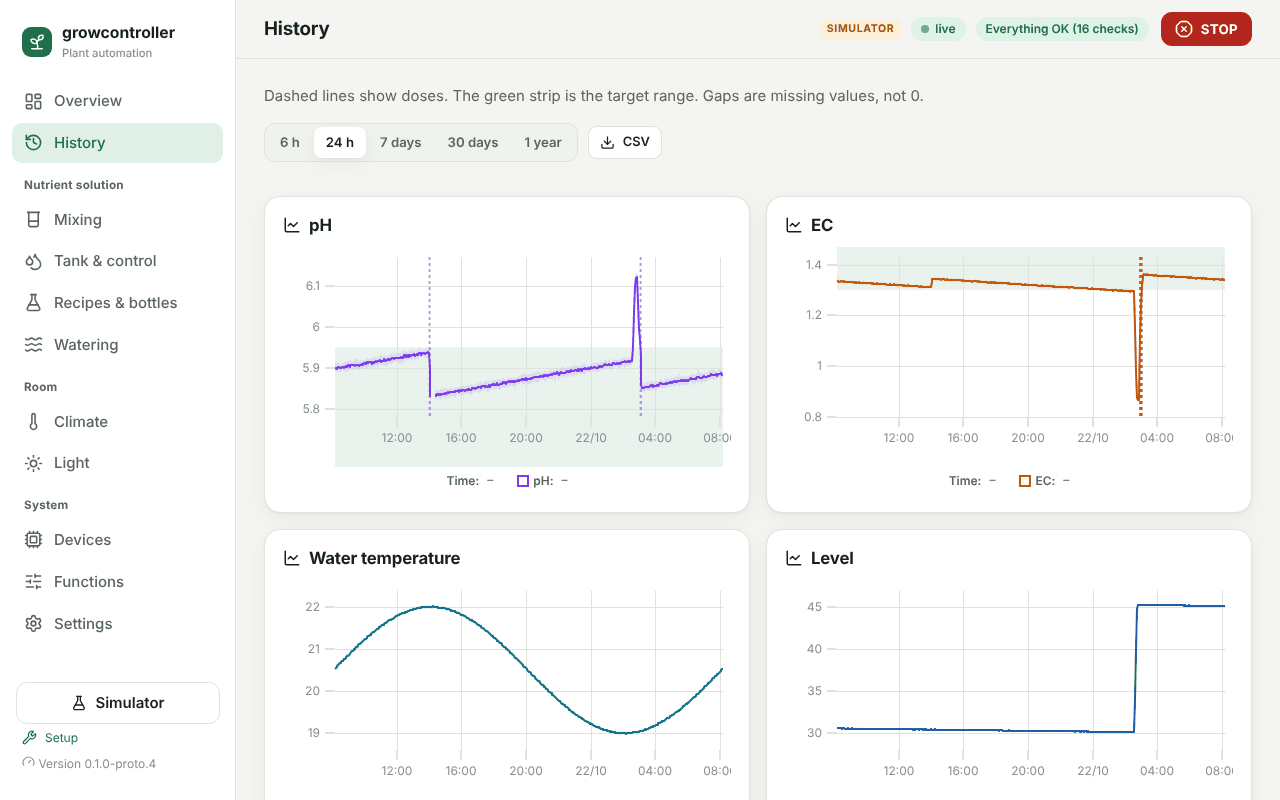
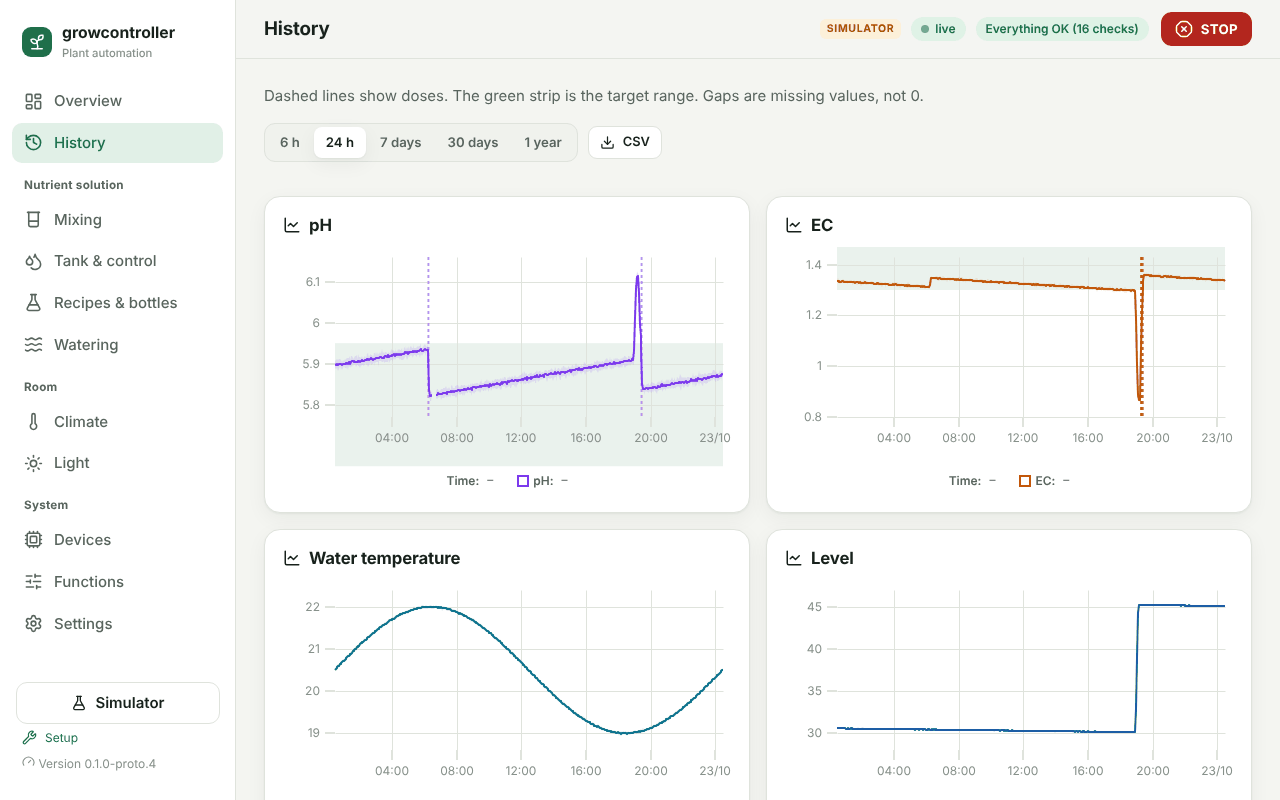
Demo guide: the demo starts in English now (#317)
#317 made the demo, its console and --help English (SD-095), so the
guide and the README no longer tell readers to switch the language.
The note on the older download says that it opens in German and where
to switch; the guide says that a demo folder saved by an older version
keeps its German. The screenshots are retaken from the English demo
with its own names.

Claude-Session: https://claude.ai/code/session_01VtuyZhCMigBDAiWrMMU5pJ

diff --git a/docs/DEMO.md b/docs/DEMO.md
@@ -11,9 +11,11 @@ to tell us what you think. You need a computer: Windows, macOS or Linux.
 > see the safety note in the [README](../README.md).
 
 This guide describes the newest code. Until release 0.1.0-proto.5 is
-out, the download (0.1.0-proto.4) is older and differs in places: its
-menu is not grouped yet, and a mix cancelled halfway does not yet say
-what is missing.
+out, the download (0.1.0-proto.4) is older and differs in places: it
+opens in German (switch under **Einstellungen › Darstellung und Info ›
+Sprache**, that is Settings › Display and info › Language), its menu is
+not grouped yet, and a mix cancelled halfway does not yet say what is
+missing.
 
 ![The overview of the demo: tank with pH, EC and water temperature, the control rows, room climate and switched outputs](images/overview.png)
 
@@ -89,15 +91,11 @@ A console window opens. At the first start the demo first calculates
 console window open: closing it ends the demo. Start it only once at a
 time: a second copy would use the same data folder.
 
-**The demo opens in German for now**
-([issue #302](https://github.com/Wokesay/growcontroller-software/issues/302)),
-and so does the console window. On the sign-in page, type the password
-**`demo-passwort`** (German for "demo password") under **Passwort** and
-click **Anmelden** (Sign in). Then switch to English: **Einstellungen**
-(Settings, the last item in the menu) › card **Darstellung und Info**
-(Display and info) › **Sprache** (Language) › **English**. Your browser
-remembers the choice. Names the demo came with, such as the bottle
-"Teil A" (part A), stay German until the issue is fixed.
+Sign in with the password **`demo-passwort`** (German for "demo
+password"). The demo starts in English; German is under **Settings ›
+Display and info › Language**. A demo folder saved by an older version
+keeps its German: delete the folder `growcontroller-daten` next to the
+program for the English demo.
 
 The demo password exists only in the simulator; a real device never has
 a default password. The demo listens only on `127.0.0.1`, so other
@@ -232,7 +230,7 @@ leave out passwords, Wi-Fi details and where you live.
 - **Options:** start the program from a terminal in its folder, for
   example `.\growcontroller-simulator.exe --scenario neu --open` on
   Windows or `./growcontroller-simulator --scenario neu --open` on macOS
-  and Linux. `--help` lists every option (in German for now, #302).
+  and Linux. `--help` lists every option.
 
   | Option | Effect |
   |---|---|

diff --git a/CHANGELOG.md b/CHANGELOG.md
@@ -172,8 +172,8 @@ listed in every release under "Security".
   sensor" takes test reports for the list.
 - **Docs for newcomers** (`docs/DEMO.md`, `docs/FAQ.md`): a guide to the
   demo (which download for which system, checking it, starting it on
-  Windows, macOS and Linux, switching the demo to English until #302 is
-  done, what to do when it does not start, a short tour with a pH jump,
+  Windows, macOS and Linux, how the older download differs, what to do
+  when it does not start, a short tour with a pH jump,
   time-lapse, a mix cancelled halfway, a power cut and the first-time
   setup, the command-line options, building it yourself on Linux, macOS,
   Windows or a Raspberry Pi, and what feedback helps); a FAQ on status,

diff --git a/README.md b/README.md
@@ -38,9 +38,7 @@ computer.
    (**More info › Run anyway**); macOS needs one Terminal command first
    ([start on macOS](docs/DEMO.md#2-start)).
 3. Your browser opens the demo. Sign in with the password
-   `demo-passwort`. The demo opens in German for now: switch to English
-   under **Einstellungen › Darstellung und Info › Sprache** (Settings ›
-   Display and info › Language).
+   `demo-passwort`.
 
 A tank that has been running for two days, with pumps, probes, history
 and a panel to speed up time and cause faults. Step by step, with a short
